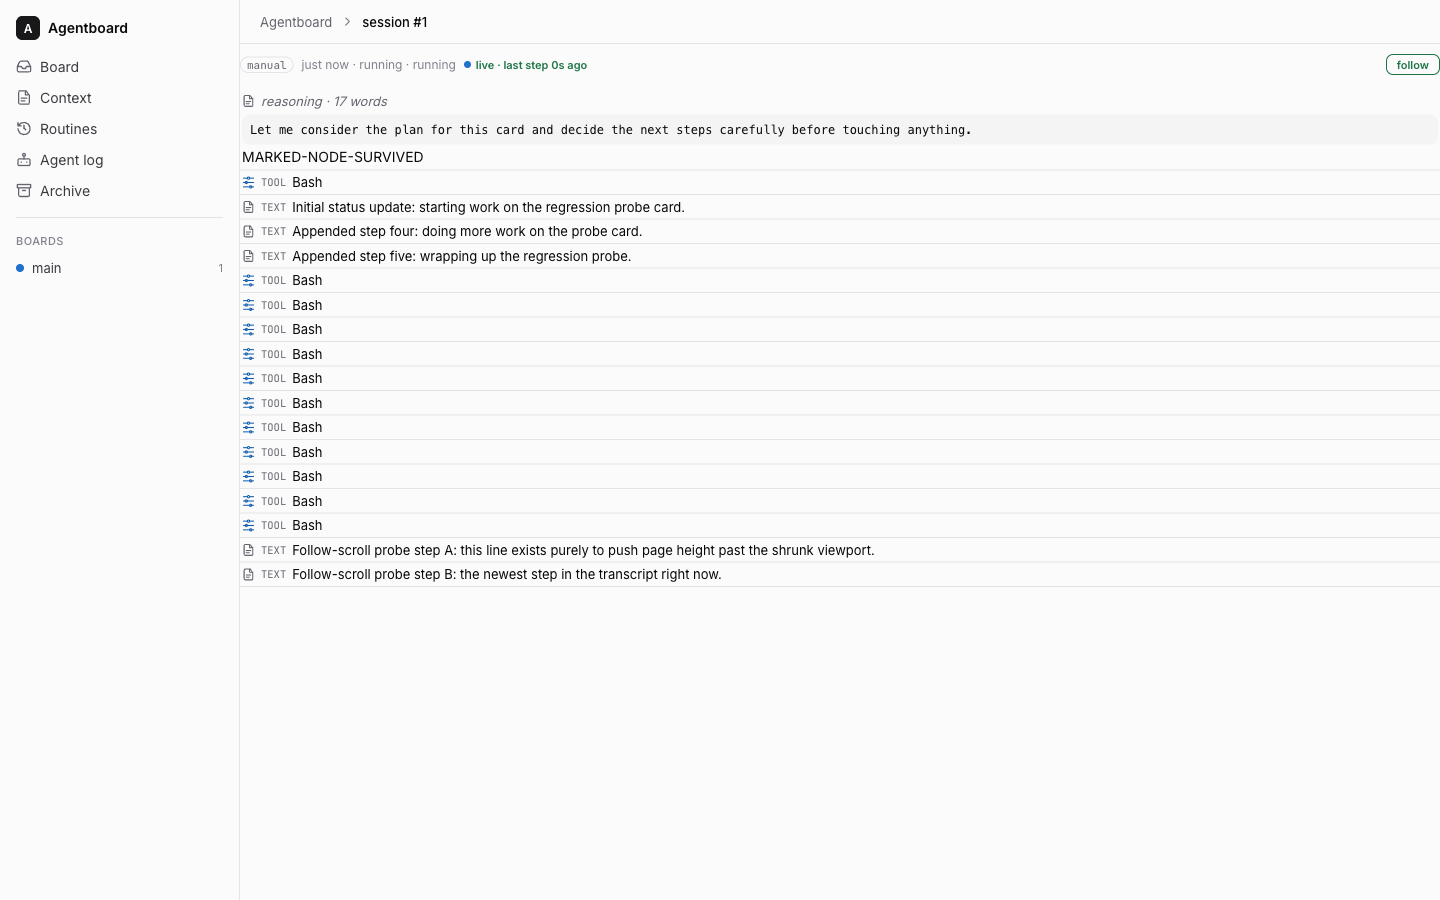
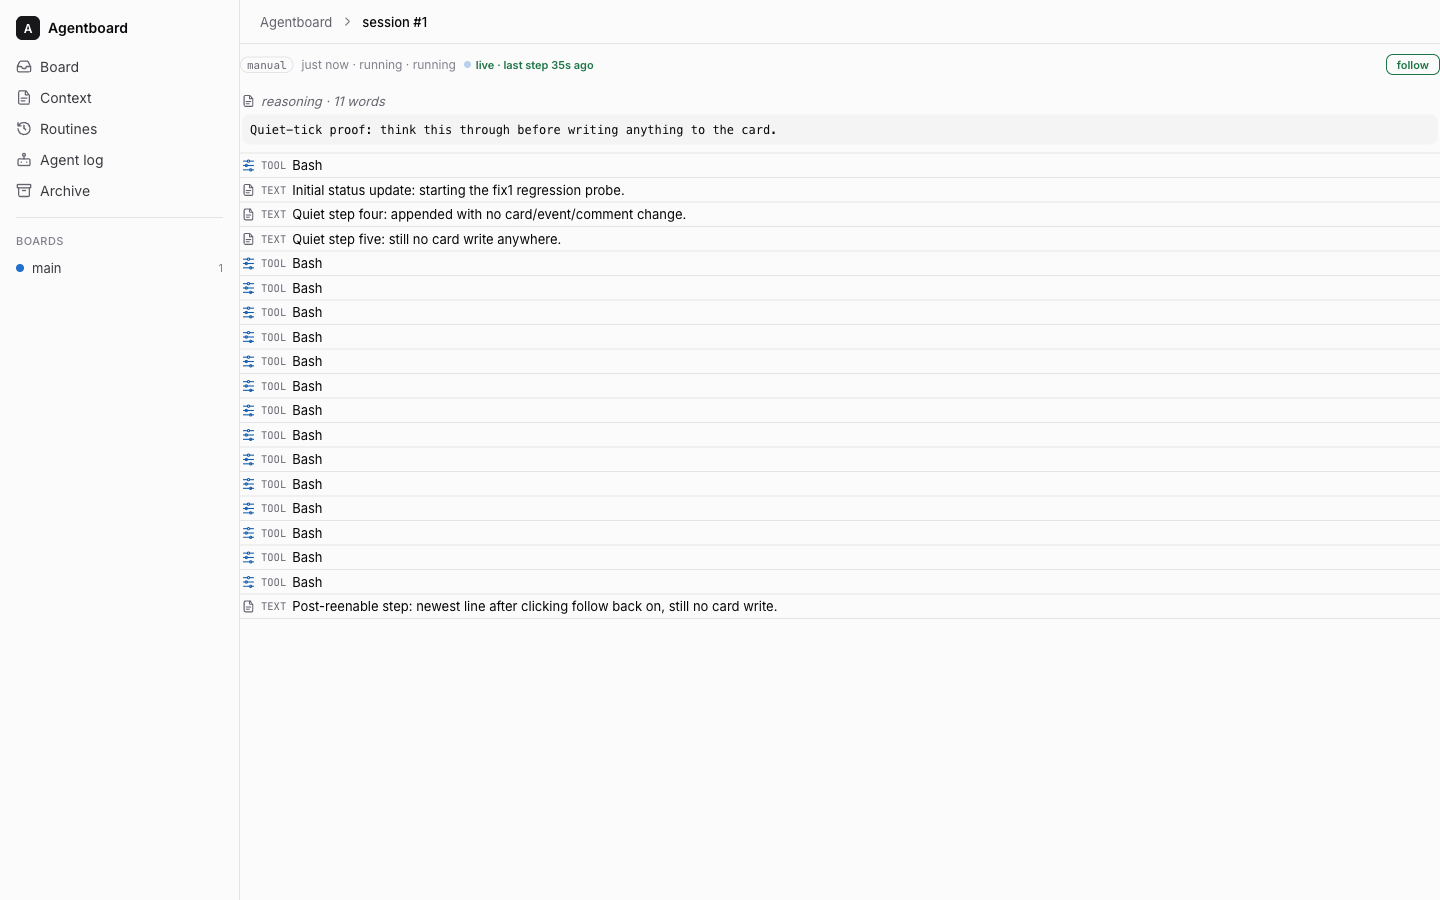
fix(web): live tail — quiet-tick poke + follow-disable on the real scroll container
Fix round 1 for task 3, per coordinator ruling: (1) the session route now
pokes its incremental step endpoint on every tick, not just on a changed
composite cursor — transcript growth deliberately advances no cursor
component, so a quiet session (steps only, no card/event/comment write)
would otherwise never tail; the increment call is nearly free when the
offset is unchanged. (2) follow-disable now listens on #view's own scroll
event (this app's actual per-view scroll container) with an at-bottom
check, instead of window scrollY/wheel — the old listener could never fire
since window never scrolls in this layout.

Addendum added to docs/superpowers/specs/2026-08-28-agentlog-observer-design.md
§2 recording the quiet-tick amendment.

Changed region(s): [[0.1562, 0.0933, 0.5938, 0.6844], [0.3438, 0.1244, 0.6562, 0.1556], [0.375, 0.0622, 0.4062, 0.0933]]

diff --git a/web/js/views/session.js b/web/js/views/session.js
@@ -72,18 +72,19 @@ export async function renderSession(root, { id }) {
     if (follow) list.lastElementChild?.scrollIntoView({ block: 'end' });
   };
   // Scrolling up is an implicit "stop following"; the button turns it back on.
-  const offFollow = () => {
-    if (window.scrollY + window.innerHeight < document.body.scrollHeight - 40 && follow) {
+  // #view is the real scroll container (design's per-view scroll pattern,
+  // same as card.js's .detail-scroll) — an at-bottom check means the
+  // programmatic scrollIntoView above never disables follow (it lands at the
+  // bottom, so this is a no-op) while a user scrolling up does.
+  const scroller = document.getElementById('view');
+  const onScroll = () => {
+    if (follow && scroller.scrollTop + scroller.clientHeight < scroller.scrollHeight - 40) {
       follow = false;
       followBtn.classList.remove('on');
     }
   };
-  window.addEventListener('wheel', offFollow, { passive: true });
-  window.addEventListener('touchmove', offFollow, { passive: true });
-  cleanup = () => {
-    window.removeEventListener('wheel', offFollow);
-    window.removeEventListener('touchmove', offFollow);
-  };
+  scroller.addEventListener('scroll', onScroll, { passive: true });
+  cleanup = () => scroller.removeEventListener('scroll', onScroll);
 
   refreshHook = async () => {
     const r = await api.sessionSteps(id, cursor.offset, cursor.n);

diff --git a/web/js/app.js b/web/js/app.js
@@ -127,6 +127,7 @@ async function tick() {
     if (!changed) {
       cursor = res.cursor;
       if (name === 'card') await retryCardRefresh(); // nudge a pending refresh a dirty-guard held back (no extra fetch; awaited so the busy flag covers it)
+      else if (name === 'session') await pokeSessionRefresh(); // live tail pulls its increment even on quiet ticks — new steps advance no cursor component
       return;
     }
     const overlay = document.getElementById('overlay');

diff --git a/docs/superpowers/specs/2026-08-28-agentlog-observer-design.md b/docs/superpowers/specs/2026-08-28-agentlog-observer-design.md
@@ -69,6 +69,15 @@ afgeronde sessie natoetst en bevindingen terugvoert als ops card.
   eerlijkheidsregel als de heartbeat op het board.
 - Een afgeronde sessie rendert zoals nu (één keer, statisch); de hook
   doet dan niets meer.
+- *Amendement 2026-09-02 (task 3, fix round 1): de poke is niet beperkt
+  tot `changed` — de sessieroute haalt haar increment elke tick op
+  zolang de hook staat, ook op een stille tick. De samengestelde cursor
+  (`2026-08-28-realtime-design.md` §1) draagt bewust geen
+  transcript-component, dus zonder deze aanvulling stokt de tail zodra
+  een sessie alleen stappen schrijft zonder kaart-, event- of
+  commentwijziging. De increment-call met een ongewijzigde offset is
+  vrijwel gratis server-side (`size <= offset` retourneert meteen), en
+  de hook bestaat alleen op een lopende sessie.*
 
 ## 3. Observer (besluit J)
 
